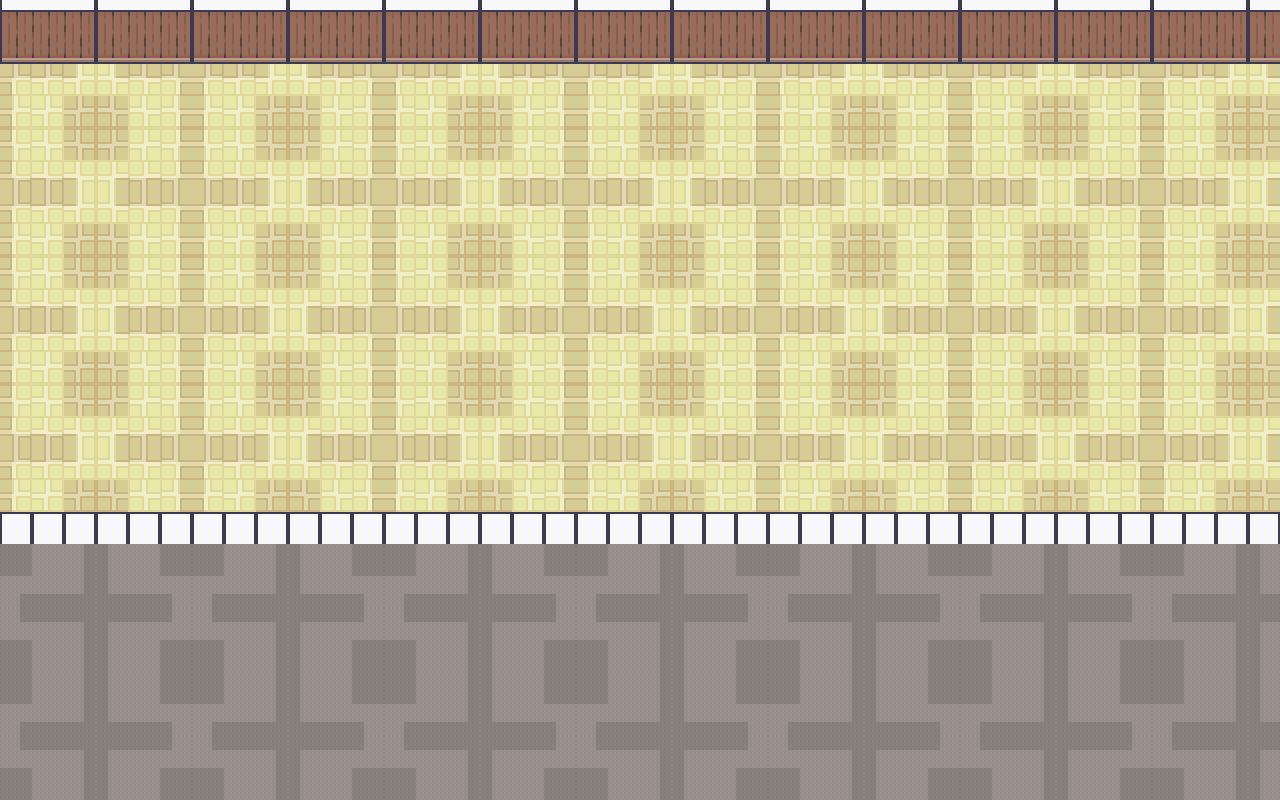
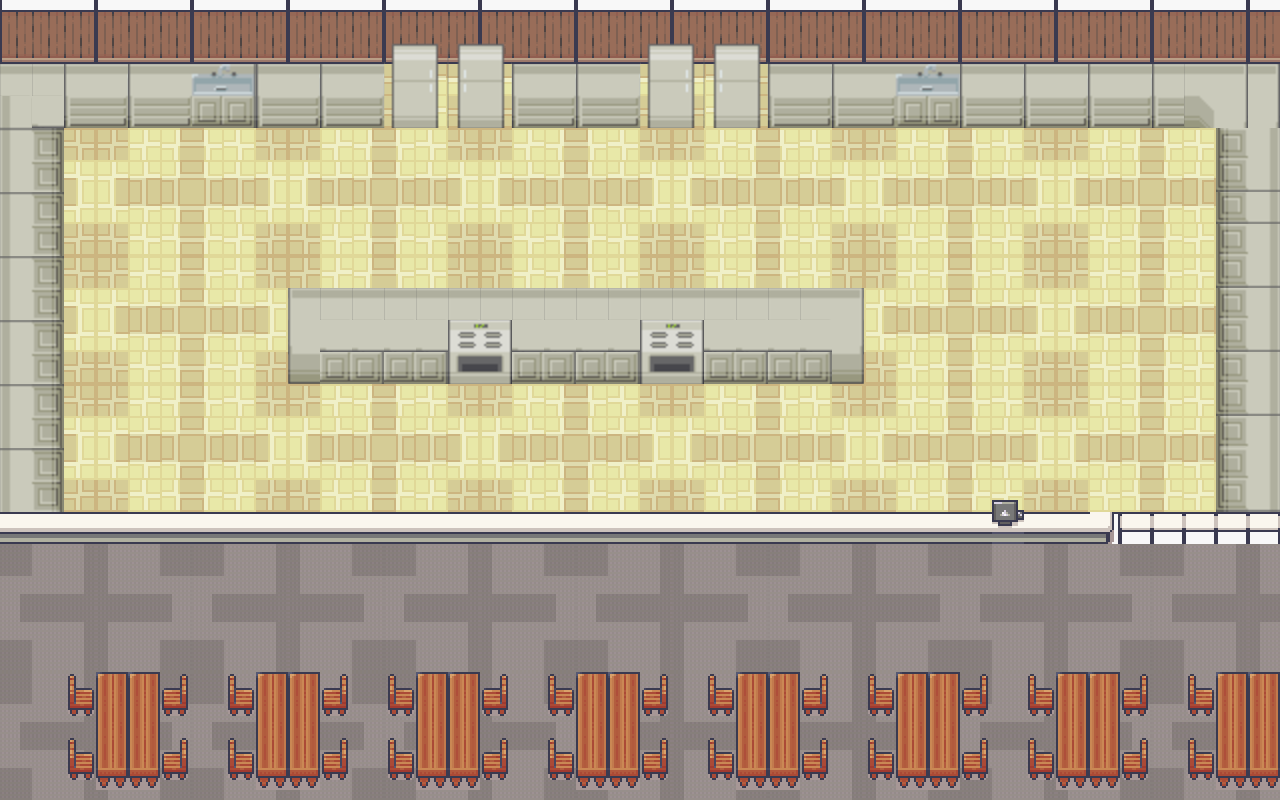
updated map, added more stuff

Changed region(s): [[0.0, 0.0312, 1.0, 0.6875], [0.0312, 0.8125, 1.0, 1.0], [0.2188, 0.3438, 0.6875, 0.5]]

diff --git a/piazza-panic/assets/Interiors_free_32x32.tsx b/piazza-panic/assets/Interiors_free_32x32.tsx
@@ -1,4 +1,4 @@
 <?xml version="1.0" encoding="UTF-8"?>
 <tileset version="1.9" tiledversion="1.9.2" name="Interiors_free_32x32" tilewidth="32" tileheight="32" tilecount="1424" columns="16">
- <image source="Modern tiles_Free/Interiors_free/32x32/Interiors_free_32x32.png" width="512" height="2848"/>
+ <image source="Interiors_free_32x32.png" width="512" height="2848"/>
 </tileset>

diff --git a/piazza-panic/assets/kitchen.tsx b/piazza-panic/assets/kitchen.tsx
@@ -1,0 +1,4 @@
+<?xml version="1.0" encoding="UTF-8"?>
+<tileset version="1.9" tiledversion="1.9.2" name="kitchen" tilewidth="32" tileheight="32" tilecount="224" columns="14">
+ <image source="kitchen.png" width="448" height="512"/>
+</tileset>

diff --git a/piazza-panic/core/src/main/java/com/loading/piazzapanic/GameScreen.java b/piazza-panic/core/src/main/java/com/loading/piazzapanic/GameScreen.java
@@ -190,6 +190,7 @@ public class GameScreen implements Screen {
 
     @Override
     public void dispose() {
-        // TODO
+        _parent.batch.dispose();
+        _parent.font.dispose();
     }
 }
